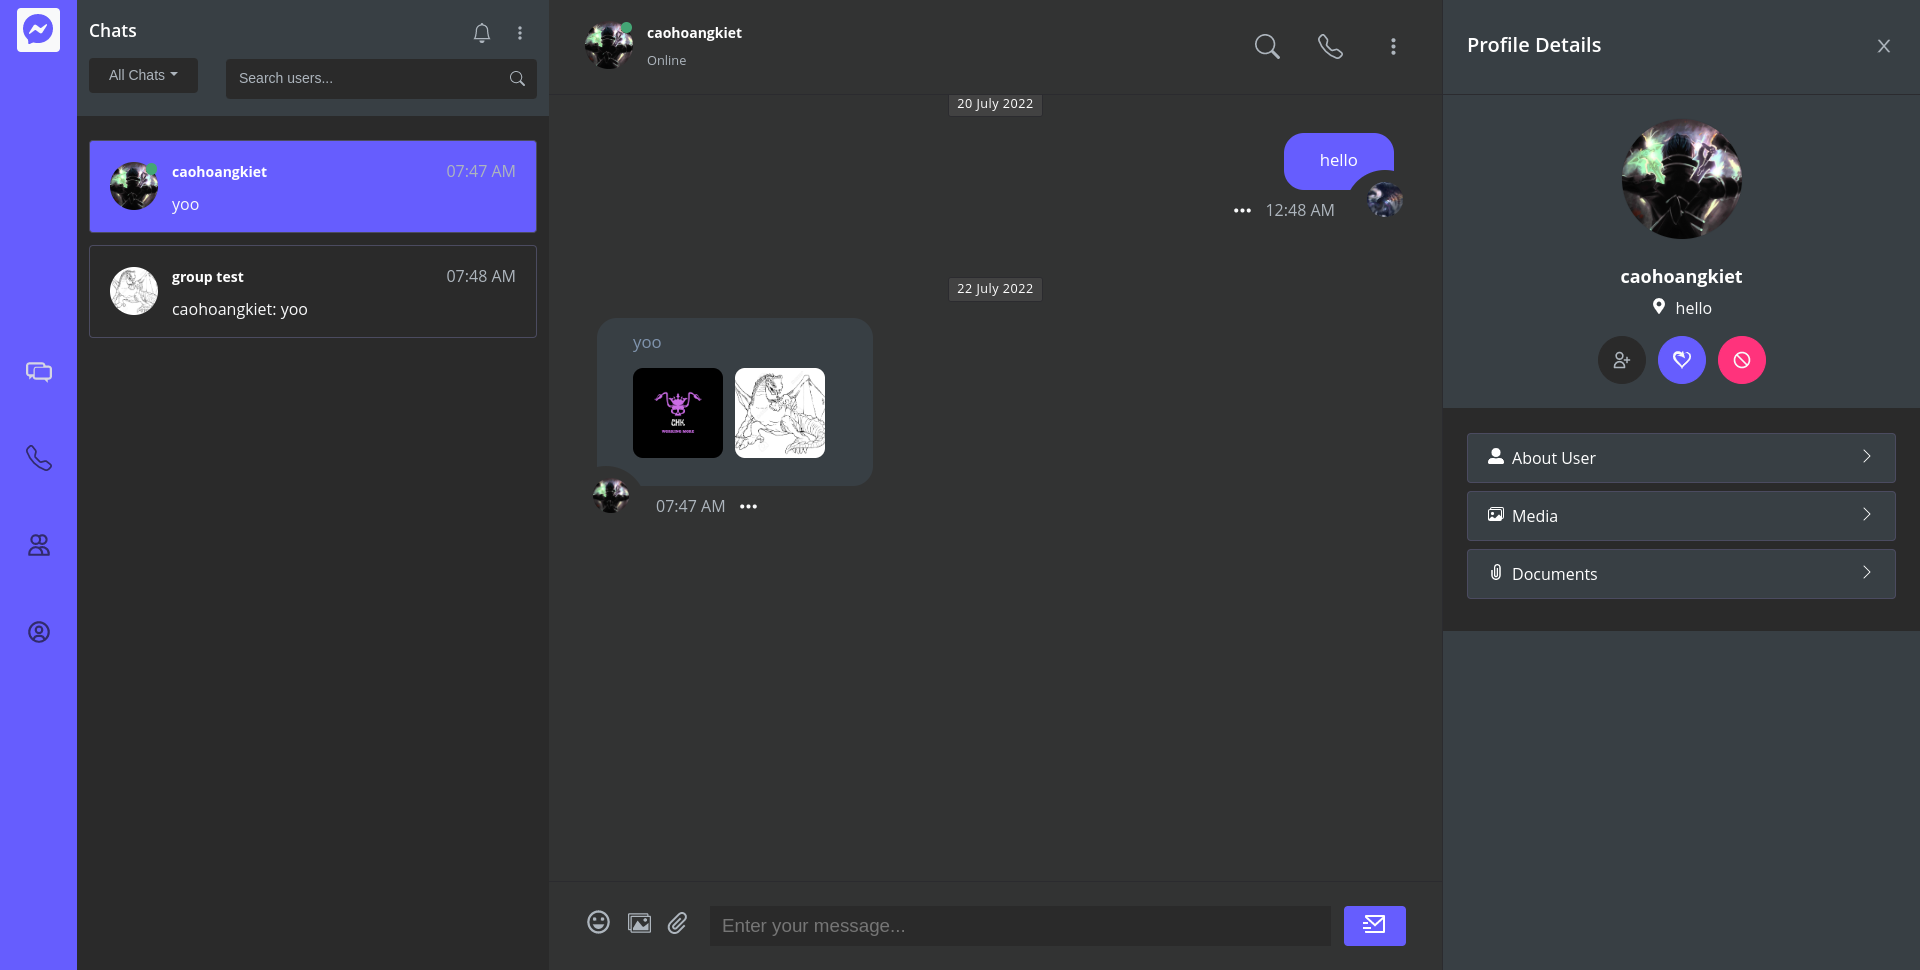
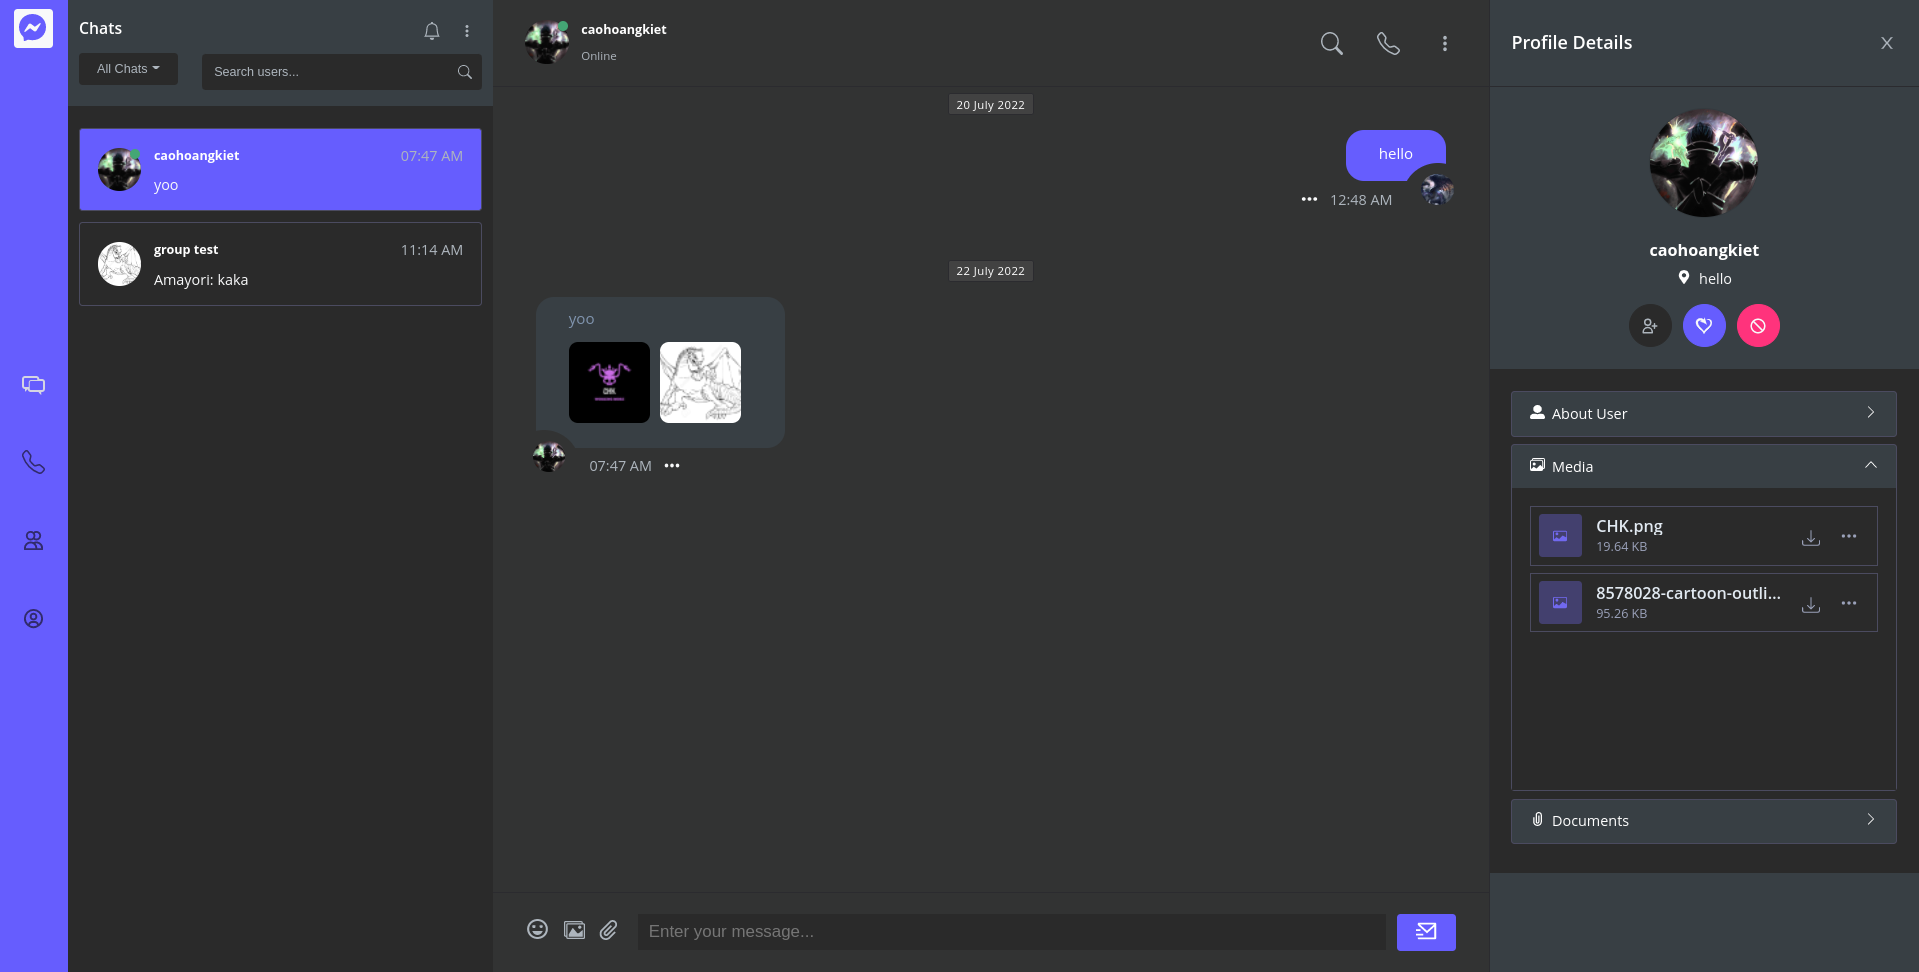
add images and readme

diff --git a/README.md b/README.md
@@ -32,7 +32,8 @@ In this app, we're going to use a React Video Chat Application using WebRTC, soc
 ## Main chat
 
 <p align="center">
- <img width="90%" src="https://github.com/CaoHoangKiet222/Video-Chat-App/blob/main/images/chat-details.png?raw=true">
+ <img width="45%" src="https://github.com/CaoHoangKiet222/Video-Chat-App/blob/main/images/chat-details.png?raw=true">
+ <img width="45%" src="https://github.com/CaoHoangKiet222/Video-Chat-App/blob/main/images/group-chat-details.png?raw=true" /> 
 </p>
 
 <p align="center">
